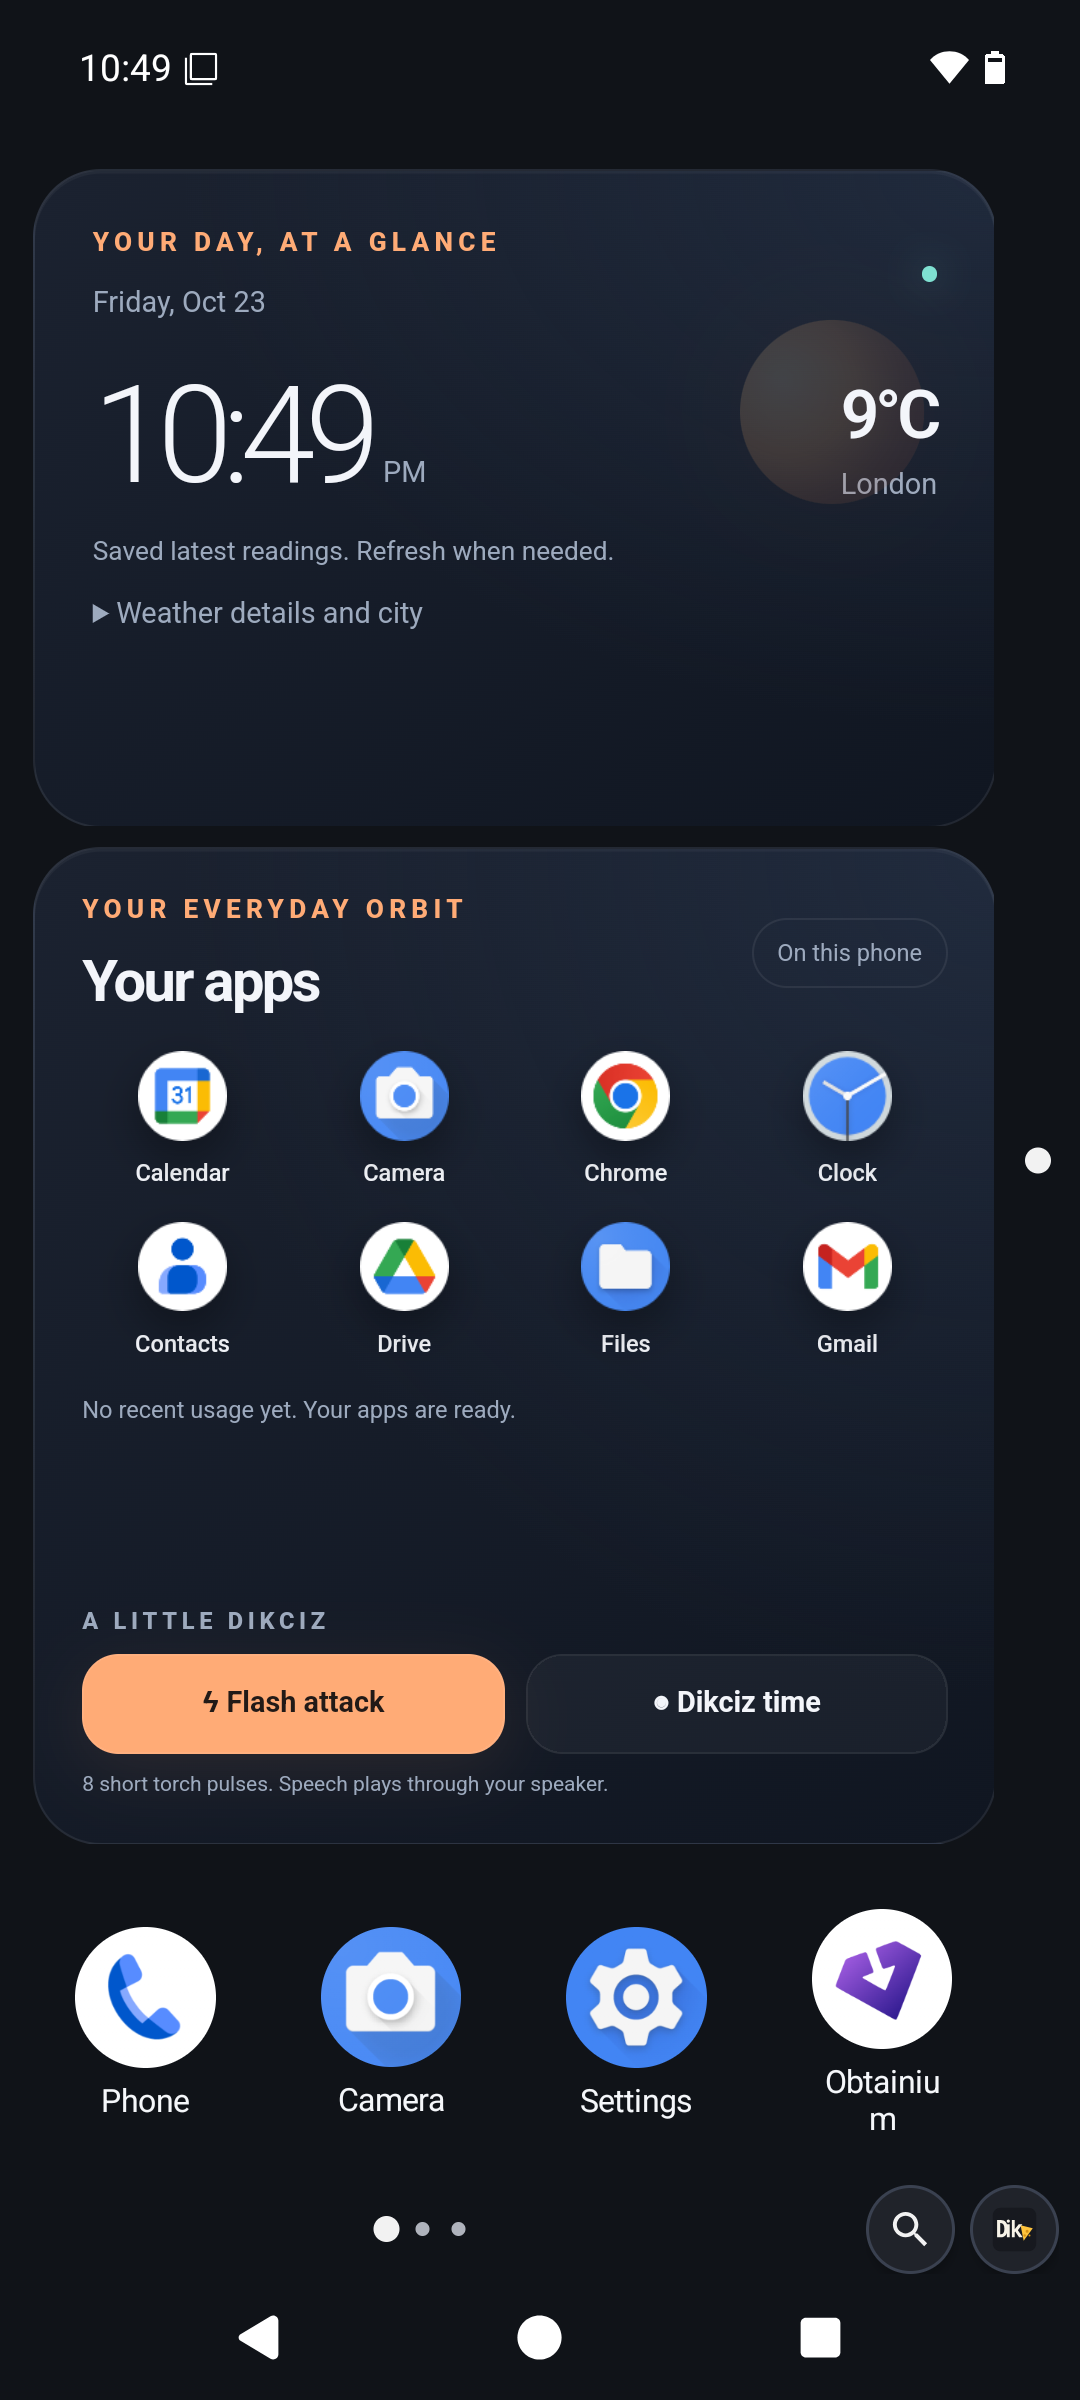
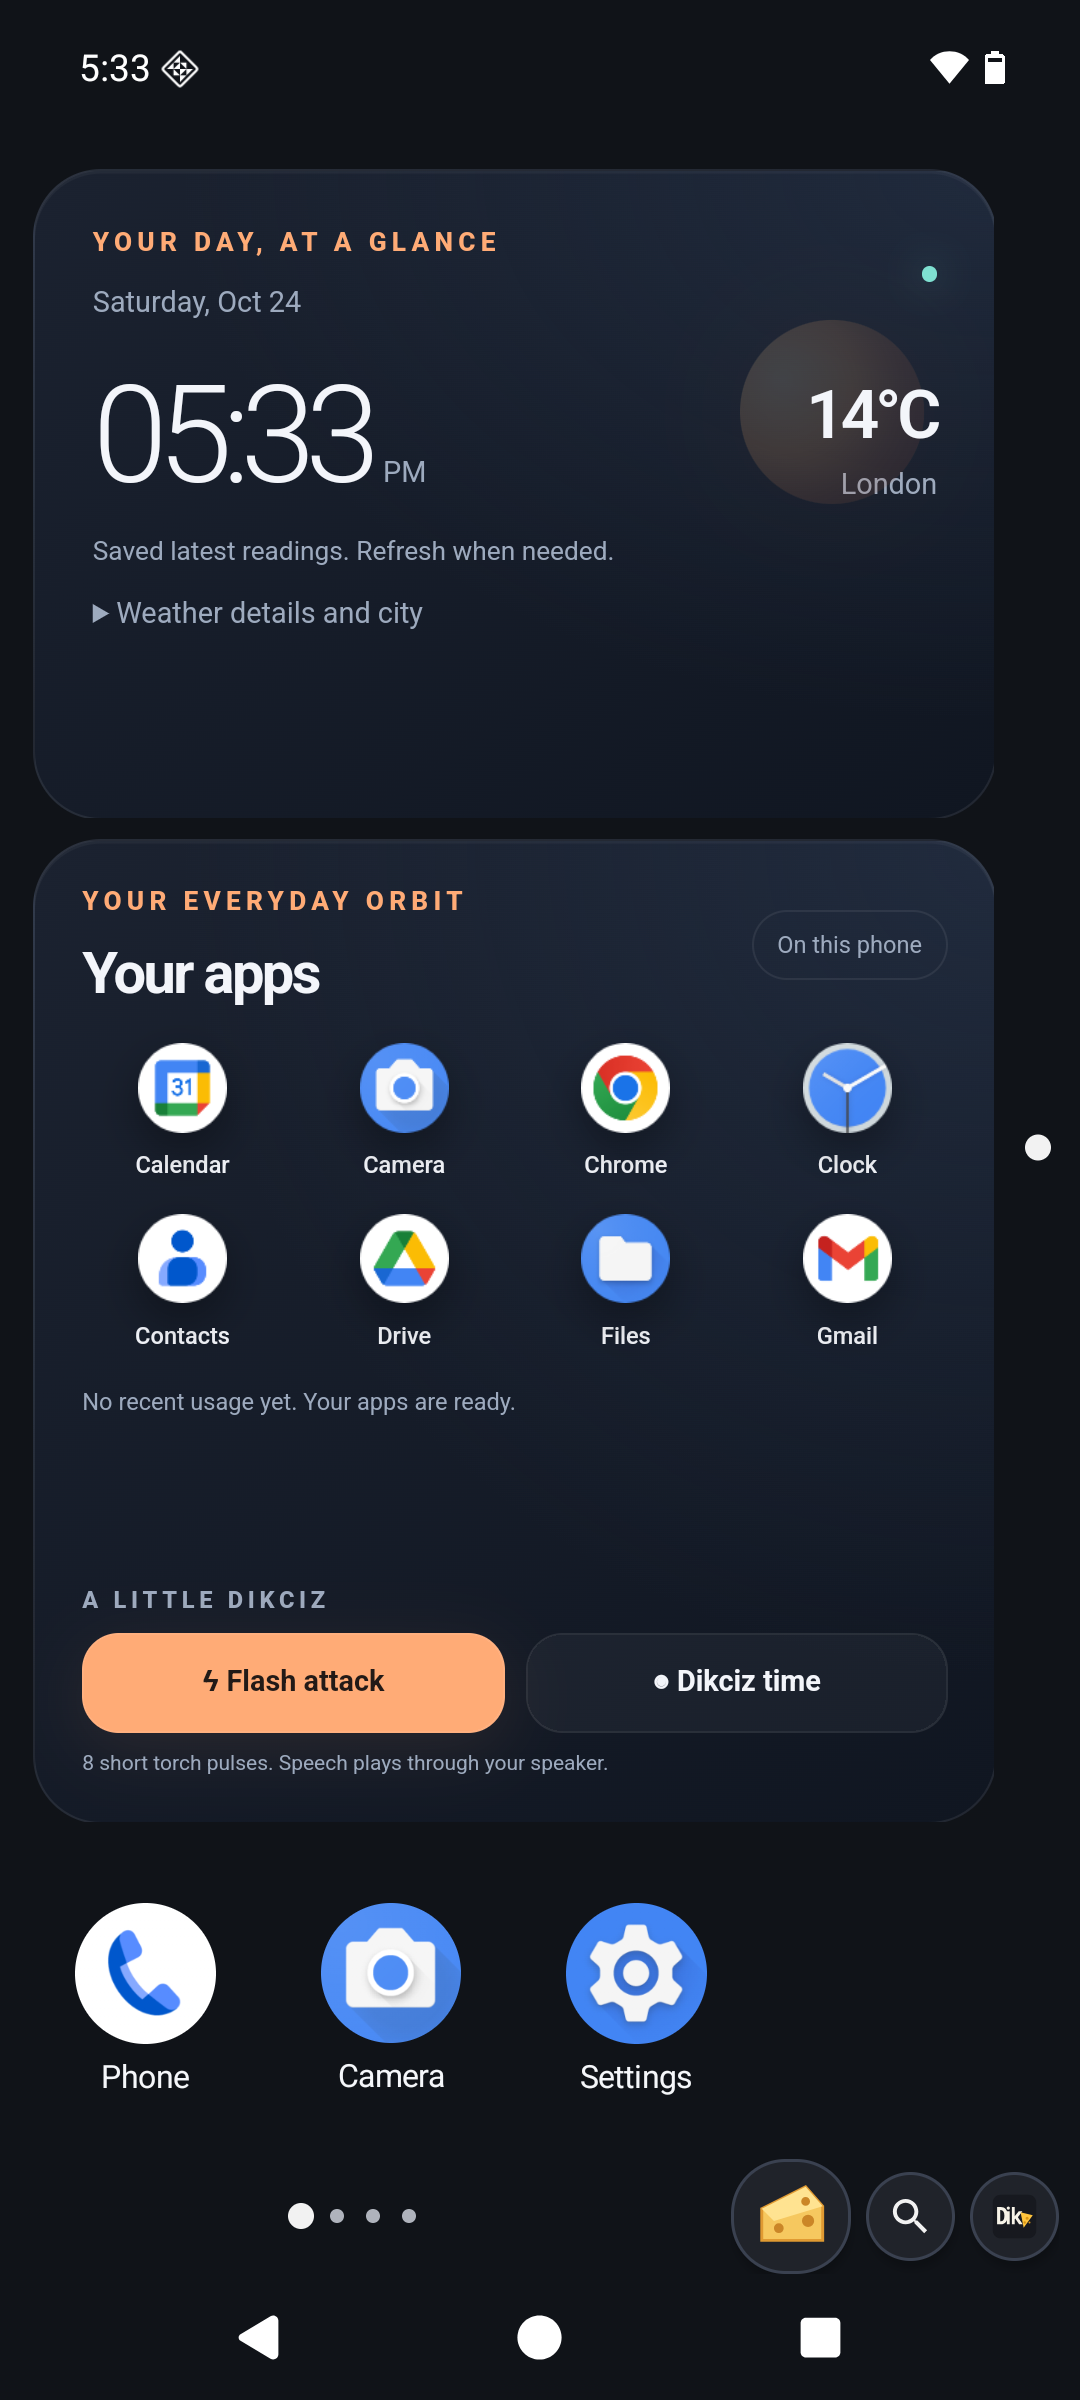
fix: refresh starter screenshots and widen Goblin controls
Keep the Goblin action grid below the animated badge so button labels have full width.

Refresh the Home, Tools and Device captures, add Goblin to the README gallery, and correct the four-page user guide. Add capture checks for button width and clipping, with bounded retries for live weather.

diff --git a/app/src/dikciz/assets/widget-library/goblin-console/style.css b/app/src/dikciz/assets/widget-library/goblin-console/style.css
@@ -1,6 +1,6 @@
 :root{color-scheme:dark;--ink:#f2ffe9;--muted:#adbdad;--acid:#ccff64;--pink:#ff85c8}*{box-sizing:border-box}html,body{margin:0;background:transparent}body{font:14px/1.45 system-ui,sans-serif;color:var(--ink);-webkit-tap-highlight-color:transparent}
 .console{position:relative;min-height:100vh;overflow:hidden;padding:24px;border-radius:26px;background:radial-gradient(ellipse at 75% 5%,#57692566,transparent 55%),radial-gradient(ellipse at 0 60%,#5c1e5144,transparent 65%),#111b15;border:1px solid #ccff6428}header{display:flex;justify-content:space-between;align-items:center;gap:8px}.eyebrow{font-size:10px;letter-spacing:.16em;text-transform:uppercase;color:var(--acid);font-weight:750}.badge{padding:5px 8px;border:1px solid #ffffff22;border-radius:20px;font-size:10px;color:var(--muted)}
-h1{font-size:34px;letter-spacing:-.05em;line-height:1;margin:0 0 12px}.intro{max-width:30em;color:var(--muted);margin:0 0 20px}.buttons{display:grid;grid-template-columns:1fr 1fr;gap:10px}button{font:inherit;font-weight:650;min-height:48px;border-radius:14px;border:1px solid #ccff6433;background:#ccff6415;color:var(--acid);padding:10px;cursor:pointer}button:active{transform:scale(.97)}.stop{background:#ff85c81b;color:var(--pink);border-color:#ff85c844}
+h1{font-size:34px;letter-spacing:-.05em;line-height:1;margin:0 0 12px}.intro{max-width:30em;color:var(--muted);margin:0 0 20px}.buttons{clear:both;display:grid;grid-template-columns:1fr 1fr;gap:10px}button{font:inherit;font-weight:650;min-height:48px;border-radius:14px;border:1px solid #ccff6433;background:#ccff6415;color:var(--acid);padding:10px;cursor:pointer}button:active{transform:scale(.97)}.stop{background:#ff85c81b;color:var(--pink);border-color:#ff85c844}
 .reactor{position:relative;float:right;width:100px;height:100px;perspective:200px;margin:12px 0 6px 12px}.core{position:absolute;inset:25px;display:grid;place-items:center;font-size:29px;font-weight:900;color:#1a230c;background:var(--acid);border-radius:16px;transform:rotate(-12deg);box-shadow:0 0 35px #ccff6433}.orbit{position:absolute;inset:6px;border:1px solid #ccff6455;border-radius:50%;animation:orbit 7s linear infinite}
 details{margin:14px 0;color:var(--muted);font-size:12px}summary{cursor:pointer;padding:10px 0}.previews{grid-template-columns:repeat(3,1fr)}.previews button{font-size:11px}.weather{clear:both;display:flex;justify-content:space-between;gap:12px;align-items:center;padding:18px 0;margin-top:14px;border-top:1px solid #ffffff15}.weather strong{display:block;font-size:28px;letter-spacing:-.04em}.weather small{display:block;font-size:10px;color:var(--muted);max-width:24em}.weather button{font-size:12px}.watch{display:flex;align-items:center;gap:10px;font-size:12px;color:var(--muted)}input{width:20px;height:20px;accent-color:var(--acid)}#status{font-size:12px;min-height:36px;color:var(--acid);overflow-wrap:anywhere}footer{padding-top:14px;border-top:1px solid #ffffff15;font-size:11px;color:var(--muted)}footer strong{color:var(--ink)}footer p{margin:7px 0}a{color:var(--pink)}button:focus-visible,summary:focus-visible,input:focus-visible{outline:2px solid var(--pink);outline-offset:3px}
 @keyframes orbit{to{transform:rotateX(55deg) rotateZ(360deg)}}body[data-visible="false"] *{animation-play-state:paused!important}@media(prefers-reduced-motion:reduce){*{animation:none!important;transition:none!important}}@media(max-width:280px){.console{padding:16px}.reactor{width:78px;height:78px}.core{inset:18px}h1{font-size:28px}.badge{display:none}.previews{grid-template-columns:1fr}.weather{flex-wrap:wrap}}

diff --git a/tests/live_control/test_showcase_capture.py b/tests/live_control/test_showcase_capture.py
@@ -1,6 +1,7 @@
 """Explicit documentation capture with live weather and private emulator fixtures."""
 
 import os
+import logging
 
 from . import *
 from .test_native_data import native_call, grant_permissions, CALENDAR_PERMISSIONS
@@ -21,6 +22,8 @@ window.addEventListener("dikciz-ready", () => {
             points:(document.getElementById("cpu-history")?.getAttribute("points") || "").trim().split(/ +/).filter(Boolean).length,
             historyEnd:Number((document.getElementById("cpu-history")?.getAttribute("points") || "0,0").trim().split(/ +/).at(-1).split(",")[0]),
             overflow:document.documentElement.scrollWidth > innerWidth + 1,
+            goblinButtonsWidth:document.getElementById("peen")?.parentElement.getBoundingClientRect().width,
+            viewportWidth:innerWidth,
             clipped:[...document.querySelectorAll("#clock,#temperature,#flash,#speak,#record,#calendar")].some(node=>{
                 const rect=node.getBoundingClientRect();
                 return rect.width>0 && rect.height>0 && (rect.left<0 || rect.right>innerWidth+1 || rect.bottom>innerHeight+1);
@@ -38,6 +41,10 @@ window.addEventListener("dikciz-ready", () => {
     publish();
 });
 """
+
+GOBLIN_WEATHER_ATTEMPTS = 3
+GOBLIN_WEATHER_WAIT_SECONDS = 35
+GOBLIN_MINIMUM_BUTTON_WIDTH_FRACTION = 0.75
 
 
 def capture_wait(connection, identifier, predicate, seconds=90):
@@ -59,6 +66,32 @@ def capture_image(name):
     target = ARTIFACT_DIRECTORY / "showcase-guide"
     target.mkdir(exist_ok=True)
     shutil.copyfile(ARTIFACT_DIRECTORY / "screenshot.png", target / name)
+
+
+def capture_goblin_page(connection):
+    AUTOMATION.request(connection, "selectPage", pageId="goblin")
+    for attempt in range(GOBLIN_WEATHER_ATTEMPTS):
+        direct_tap(wait_for_physical_text_bounds("Check outside"))
+        try:
+            goblin = capture_wait(connection, "goblin-console", lambda state: isinstance(state.get("temperatureC"), (int, float)), seconds=GOBLIN_WEATHER_WAIT_SECONDS)
+            break
+        except AssertionError:
+            if attempt + 1 == GOBLIN_WEATHER_ATTEMPTS:
+                raise
+            logging.getLogger(__name__).warning("goblin_live_weather_capture_retry", extra={"attempt":attempt + 1})
+    assert goblin["capture"]["overflow"] is False
+    assert goblin["capture"]["clipped"] is False
+    assert goblin["capture"]["goblinButtonsWidth"] >= goblin["capture"]["viewportWidth"] * GOBLIN_MINIMUM_BUTTON_WIDTH_FRACTION
+    capture_image("05-goblin-page.png")
+
+
+def test_capture_goblin_live_weather_and_controls(websocket_control):
+    grant_permissions(["android.permission.ACCESS_COARSE_LOCATION", "android.permission.ACCESS_FINE_LOCATION"])
+    run_device_operation("emulator-geo-fix", EMULATOR_GEO_LATITUDE="51.5074", EMULATOR_GEO_LONGITUDE="-0.1278")
+    config = AUTOMATION.require_configuration(AUTOMATION.request(websocket_control, "reset"))
+    configuration_widget(config, "goblin-console")["javascript"] += CAPTURE_PROBE
+    AUTOMATION.request(websocket_control, "configReplace", config=config)
+    capture_goblin_page(websocket_control)
 
 
 def test_user_guide_showcase_live_weather_and_all_pages(websocket_control):
@@ -111,6 +144,8 @@ def test_user_guide_showcase_live_weather_and_all_pages(websocket_control):
         assert device["capture"]["overflow"] is False
         assert device["capture"]["historyEnd"] == 300
         capture_image("04-device-page.png")
+
+        capture_goblin_page(websocket_control)
         AUTOMATION.request(websocket_control, "selectPage", pageId="home")
     finally:
         device_command("dumpsys battery reset")

diff --git a/docs/user-guide.md b/docs/user-guide.md
@@ -30,7 +30,7 @@ Apps opened from the drawer or a native shortcut run in their own Android task. 
 
 ### Switch pages or search by name
 
-Swipe across a page or tap a rail dot to move one page. Tap the magnifier beside the horizontal rail to search all pages. Search matches the page name and its stable address. The bundled pages are `Home (1H1V)`, `Tools (2H1V)` and `Device (3H1V)`. Home combines time/weather, frequently used app icons and a native bottom row of Phone, Camera, Settings and an installed store. Tools has agenda and voice notes. Device has a battery ring, resource bars, CPU history and core tiles. Each WebView owns its complete source and state. Weather uses permitted location or a chosen city; calendar and microphone access are requested from their widgets. Read the [starter home guide](starter-home.md) for details.
+Swipe across a page or tap a rail dot to move one page. Tap the magnifier beside the horizontal rail to search all pages. Search matches the page name and its stable address. The bundled pages are `Home (1H1V)`, `Tools (2H1V)`, `Device (3H1V)` and `Goblin (4H1V)`. Home combines time/weather, frequently used app icons and a native bottom row of Phone, Camera, Settings and an installed store. Tools has agenda and voice notes. Device has a battery ring, resource bars, CPU history and core tiles. Goblin has manual speech, alien sounds, torch pulses and outdoor weather checks, with optional Lua automations that start disabled. Each WebView owns its complete source and state. Weather uses permitted location or a chosen city; calendar and microphone access are requested from their widgets. Read the [starter home guide](starter-home.md) for details.
 
 ![Tools page](images/user-guide/03-insights-page.png)
 

diff --git a/README.md b/README.md
@@ -20,13 +20,16 @@ Also for goblins who want their phone to say "peen goes in vageen", flash the to
 
 You choose the model provider, scripts, permissions and network access. The built-in assistant and external clients use the same phone tools. Android's permission and hardware limits still apply.
 
-<p>
-<img src="docs/images/user-guide/01-first-launch.png" alt="Home with live London weather, Android app icons and native dock" width="250">
-<img src="docs/images/user-guide/03-insights-page.png" alt="Tools with upcoming calendar entries and a saved voice note" width="250">
-<img src="docs/images/user-guide/04-device-page.png" alt="Device with battery, memory, storage and CPU charts" width="250">
+<p align="center">
+<img src="docs/images/user-guide/01-first-launch.png" alt="Home with live London weather, Android app icons, native dock and the cheese chat control" width="280">
+<img src="docs/images/user-guide/05-goblin-page.png" alt="Goblin control with speech, alien sounds, torch pulses and live outdoor weather" width="280">
+</p>
+<p align="center">
+<img src="docs/images/user-guide/03-insights-page.png" alt="Tools with upcoming calendar entries and a saved voice note" width="280">
+<img src="docs/images/user-guide/04-device-page.png" alt="Device with battery, memory, storage and CPU charts" width="280">
 </p>
 
-Emulator demo with live London weather, sample calendar entries, a saved voice note and a configured battery level.
+Current four-page starter on the emulator, with live London weather, sample calendar entries, a saved voice note and a configured battery level. Device counters reflect what Android exposes to the app.
 
 ## Contents
 

diff --git a/tests/live_control/README.md b/tests/live_control/README.md
@@ -18,7 +18,7 @@ These pytest scenarios exercise real Android UI and forwarded WebSocket, MCP and
 | `test_html_card_presets.py` | Native intent URI validation through all transports. |
 | `test_app_list_and_hold.py` | Real package uninstall delivery into Most used, short-swipe cancellation, one-second drag arming and hold/release editing. |
 | `test_home_showcase.py` | Shared CPU/core telemetry, usage access, native dock placement, device rendering, manual demos and timed torch behavior. |
-| `test_showcase_capture.py` | Explicit live-weather and populated three-page documentation capture on the private emulator. |
+| `test_showcase_capture.py` | Explicit live-weather and populated four-page documentation capture on the private emulator. |
 | `test_shared_vm_starter.py` | First-use pages, disabled Lua defaults, saved notes and external weather success/failure in the real WebView. |
 | `test_ussd_control.py` | USSD validation, permission recovery and explicit missing-SIM/platform failures without claiming carrier acceptance. |
 | `test_camera_video.py` | Finalized MP4/AAC through ordinary bindings, permissions, deadlines, cancellation and shared camera/microphone ownership. |

diff --git a/docs/starter-home.md b/docs/starter-home.md
@@ -46,6 +46,8 @@ The chart measures this Dikciz process as a percentage of available processor ca
 
 London and speed run from native location events when their scripts and precise Android location access are enabled, including while the widget is hidden. Their units and accuracy come from [Android Location](https://developer.android.com/reference/android/location/Location). They do not bypass Android background-location or service restrictions. The London rule is a radius around 51.5074, -0.1278, not an administrative city boundary. Edit the Lua constants and phrases to customize triggers. Stored latches and timestamps suppress repeats across restarts. Speech failures remain visible in script status and are not marked spoken.
 
+<img src="images/user-guide/05-goblin-page.png" alt="Goblin control with live outdoor temperature and manual speech, sound and torch controls" width="280">
+
 ## Optional complete templates
 
 Previously placed documents and existing public library packages keep their saved source during APK updates. Reset the bundled home or update a document with the new package source to adopt widget-script fixes.

diff --git a/docs/changelog.md b/docs/changelog.md
@@ -2,6 +2,20 @@
 
 This history includes the releases made while Dikciz and Android Lab shared one repository.
 
+## [0.29.1] - 2026-10-24
+
+### Fixed
+
+- Keep Goblin controls at full width below the animated badge instead of squeezing their labels into narrow columns.
+
+### Documentation
+
+- Refresh the starter screenshots from the current Android build, add the Goblin page to the README gallery and capture walkthrough, and correct the user guide's bundled page list.
+
+### Migration
+
+Existing Goblin widgets keep their saved source. Reset the starter home or add `clear: both` to the widget's `.buttons` CSS rule to apply the layout fix.
+
 ## [0.29.0] - 2026-10-24
 
 ### Added
